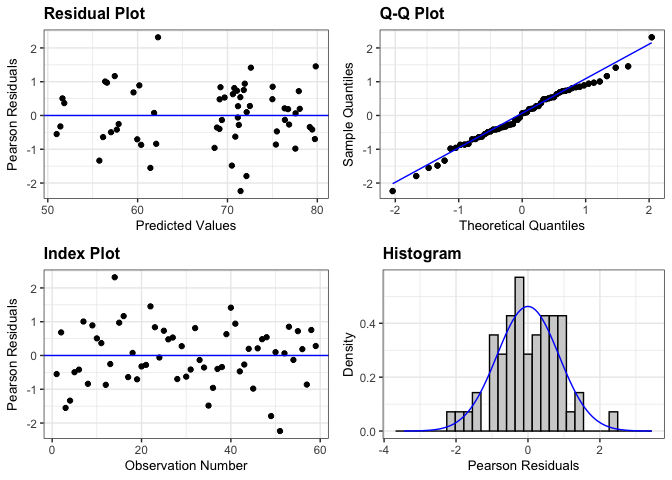
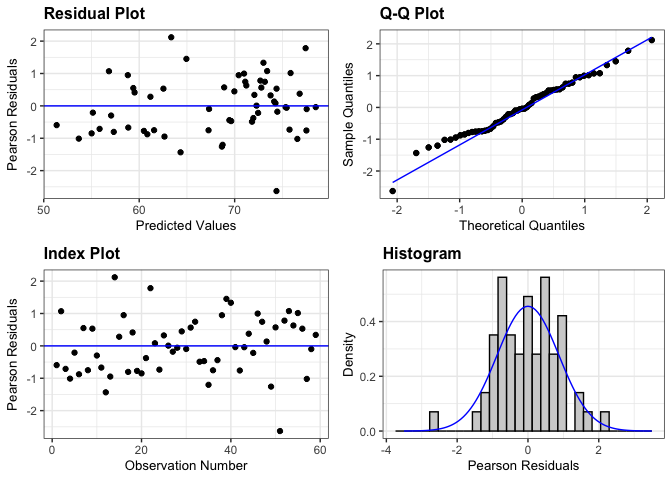
lets go

diff --git a/rmarkdowns/bean_yield.md b/rmarkdowns/bean_yield.md
@@ -29,8 +29,8 @@ library(ggResidpanel) ##install.packages("ggResidpanel")
 #library(car)
 #library(TMB)  ##install.packages("TMB")
 #library(glmmTMB)  ##install.packages("glmmTMB")
-#library(DHARMa)  ##install.packages("DHARMa")
-
+library(DHARMa)  ##install.packages("DHARMa")
+library(performance) ##install.packages("performance")
 #Load Functions
 MeanPlusSe<-function(x) mean(x)+plotrix::std.error(x)
 
@@ -112,12 +112,28 @@ be random and that post-hoc comparisons should use TUKEY rather the
 Fischer. Fisher is bogus apparently.
 
 ``` r
-random <- lmer( bean_yield_adj_bu_acre  ~ location+weed_control + location:weed_control +(1|location:block) , data =  bean_yield_clean)
+random <- lmer( bean_yield_adj_bu_acre  ~ weed_control +(1|location:block) , data =  bean_yield_clean)
 
 resid_panel(random)
 ```
 
 ![](bean_yield_files/figure-gfm/unnamed-chunk-4-1.png)<!-- -->
+
+``` r
+simulateResiduals(random,plot = TRUE) # Residuals and normality look good
+```
+
+![](bean_yield_files/figure-gfm/unnamed-chunk-4-2.png)<!-- -->
+
+    ## Object of Class DHARMa with simulated residuals based on 250 simulations with refit = FALSE . See ?DHARMa::simulateResiduals for help. 
+    ##  
+    ## Scaled residual values: 0.04 0.28 0.036 0.012 0.072 0.092 0.356 0.08 0.368 0.188 0.124 0.092 0.132 0.788 0.32 0.368 0.096 0.248 0.096 0.08 ...
+
+``` r
+check_model(random)
+```
+
+![](bean_yield_files/figure-gfm/unnamed-chunk-4-3.png)<!-- -->
 
 <br>
 
@@ -129,11 +145,9 @@ resid_panel(random)
   kable()  
 ```
 
-|     | model term            | df1 |   df2 | F.ratio |   p.value |
-|:----|:----------------------|----:|------:|--------:|----------:|
-| 1   | location              |   2 |  8.67 |  34.446 | 0.0000752 |
-| 3   | weed_control          |   4 | 35.03 |   1.135 | 0.3562477 |
-| 2   | location:weed_control |   8 | 35.03 |   1.248 | 0.3013225 |
+| model term   | df1 | df2 | F.ratio |  p.value |
+|:-------------|----:|----:|--------:|---------:|
+| weed_control |   4 |  43 |   1.169 | 0.337798 |
 
 <br>
 
@@ -149,26 +163,12 @@ kable(head(pairwise_comparisons_weed_control))
 
 | contrast  |   estimate |       SE |       df |    t.ratio |   p.value |
 |:----------|-----------:|---------:|---------:|-----------:|----------:|
-| RIC - RIM | -0.1501923 | 2.819198 | 35.73048 | -0.0532748 | 1.0000000 |
-| RIC - RNO |  1.4725294 | 2.736174 | 35.03121 |  0.5381710 | 0.9955121 |
-| RIC - TIC | -1.6850234 | 2.736174 | 35.03121 | -0.6158319 | 0.9907685 |
-| RIC - TIM |  3.7934286 | 2.736174 | 35.03121 |  1.3863988 | 0.6832901 |
-| RIM - RNO |  1.6227217 | 2.819198 | 35.73048 |  0.5755969 | 0.9935448 |
-| RIM - TIC | -1.5348311 | 2.819198 | 35.73048 | -0.5444212 | 0.9952174 |
-
-<br> \### Location (Significant)
-
-``` r
-means_location <- emmeans(random, ~  location)
-pairwise_comparisons_location<- pairs(means_location) 
-kable(head(pairwise_comparisons_location))
-```
-
-| contrast                      |  estimate |       SE |       df |  t.ratio |   p.value |
-|:------------------------------|----------:|---------:|---------:|---------:|----------:|
-| field O2 east - field O2 west |  2.758683 | 2.269573 | 9.102352 | 1.215508 | 0.5861020 |
-| field O2 east - field x       | 17.295801 | 2.232693 | 8.665443 | 7.746608 | 0.0001062 |
-| field O2 west - field x       | 14.537117 | 2.269573 | 9.102352 | 6.405221 | 0.0003553 |
+| RIC - RIM | -0.7070736 | 2.857106 | 43.13973 | -0.2474789 | 0.9999462 |
+| RIC - RNO |  1.4725294 | 2.780554 | 43.00087 |  0.5295813 | 0.9958500 |
+| RIC - TIC | -1.6850234 | 2.780554 | 43.00087 | -0.6060027 | 0.9914382 |
+| RIC - TIM |  3.7934286 | 2.780554 | 43.00087 |  1.3642707 | 0.6950589 |
+| RIM - RNO |  2.1796030 | 2.857106 | 43.13973 |  0.7628708 | 0.9722262 |
+| RIM - TIC | -0.9779499 | 2.857106 | 43.13973 | -0.3422868 | 0.9996441 |
 
 <br>
 
@@ -178,53 +178,19 @@ kable(head(pairwise_comparisons_location))
 
 ``` r
 cld_weed_control_tukey <-cld(emmeans(random, ~  weed_control, type = "response"), Letters = letters, sort = TRUE, reversed=TRUE)
-```
-
-    ## NOTE: Results may be misleading due to involvement in interactions
-
-``` r
 cld_weed_control_tukey
 ```
 
     ##  weed_control emmean   SE   df lower.CL upper.CL .group
-    ##  TIC            70.4 1.96 43.9     66.5     74.3  a    
-    ##  RIM            68.9 2.07 44.0     64.7     73.0  a    
-    ##  RIC            68.7 1.96 43.9     64.8     72.7  a    
-    ##  RNO            67.2 1.96 43.9     63.3     71.2  a    
-    ##  TIM            64.9 1.96 43.9     61.0     68.9  a    
+    ##  TIC            70.4 3.03 23.4     64.1     76.7  a    
+    ##  RIM            69.4 3.10 25.1     63.0     75.8  a    
+    ##  RIC            68.7 3.03 23.4     62.5     75.0  a    
+    ##  RNO            67.2 3.03 23.4     61.0     73.5  a    
+    ##  TIM            64.9 3.03 23.4     58.7     71.2  a    
     ## 
-    ## Results are averaged over the levels of: location 
     ## Degrees-of-freedom method: kenward-roger 
     ## Confidence level used: 0.95 
     ## P value adjustment: tukey method for comparing a family of 5 estimates 
-    ## significance level used: alpha = 0.05 
-    ## NOTE: If two or more means share the same grouping symbol,
-    ##       then we cannot show them to be different.
-    ##       But we also did not show them to be the same.
-
-<br>
-
-### Location (Significant)
-
-``` r
-cld_location_tukey <-cld(emmeans(random, ~  location, type = "response"), Letters = letters, sort = TRUE, reversed=TRUE)
-```
-
-    ## NOTE: Results may be misleading due to involvement in interactions
-
-``` r
-cld_location_tukey
-```
-
-    ##  location      emmean   SE   df lower.CL upper.CL .group
-    ##  field O2 east   74.7 1.58 8.67     71.1     78.3  a    
-    ##  field O2 west   72.0 1.63 9.54     68.3     75.6  a    
-    ##  field x         57.4 1.58 8.67     53.8     61.0   b   
-    ## 
-    ## Results are averaged over the levels of: weed_control 
-    ## Degrees-of-freedom method: kenward-roger 
-    ## Confidence level used: 0.95 
-    ## P value adjustment: tukey method for comparing a family of 3 estimates 
     ## significance level used: alpha = 0.05 
     ## NOTE: If two or more means share the same grouping symbol,
     ##       then we cannot show them to be different.
@@ -238,48 +204,16 @@ cld_location_tukey
 
 ``` r
 cld_weed_control_fisher <-cld(emmeans(random, ~  weed_control , type = "response"), Letters = letters, adjust = "none",sort = TRUE, reversed=TRUE)
-```
-
-    ## NOTE: Results may be misleading due to involvement in interactions
-
-``` r
 cld_weed_control_fisher
 ```
 
     ##  weed_control emmean   SE   df lower.CL upper.CL .group
-    ##  TIC            70.4 1.96 43.9     66.5     74.3  a    
-    ##  RIM            68.9 2.07 44.0     64.7     73.0  a    
-    ##  RIC            68.7 1.96 43.9     64.8     72.7  a    
-    ##  RNO            67.2 1.96 43.9     63.3     71.2  a    
-    ##  TIM            64.9 1.96 43.9     61.0     68.9  a    
+    ##  TIC            70.4 3.03 23.4     64.1     76.7  a    
+    ##  RIM            69.4 3.10 25.1     63.0     75.8  a    
+    ##  RIC            68.7 3.03 23.4     62.5     75.0  a    
+    ##  RNO            67.2 3.03 23.4     61.0     73.5  a    
+    ##  TIM            64.9 3.03 23.4     58.7     71.2  a    
     ## 
-    ## Results are averaged over the levels of: location 
-    ## Degrees-of-freedom method: kenward-roger 
-    ## Confidence level used: 0.95 
-    ## significance level used: alpha = 0.05 
-    ## NOTE: If two or more means share the same grouping symbol,
-    ##       then we cannot show them to be different.
-    ##       But we also did not show them to be the same.
-
-### Location (Significant)
-
-``` r
-#location
-cld_location_fisher <-cld(emmeans(random, ~  location , type = "response"), Letters = letters, adjust = "none",sort = TRUE, reversed=TRUE)
-```
-
-    ## NOTE: Results may be misleading due to involvement in interactions
-
-``` r
-cld_location_fisher
-```
-
-    ##  location      emmean   SE   df lower.CL upper.CL .group
-    ##  field O2 east   74.7 1.58 8.67     71.1     78.3  a    
-    ##  field O2 west   72.0 1.63 9.54     68.3     75.6  a    
-    ##  field x         57.4 1.58 8.67     53.8     61.0   b   
-    ## 
-    ## Results are averaged over the levels of: weed_control 
     ## Degrees-of-freedom method: kenward-roger 
     ## Confidence level used: 0.95 
     ## significance level used: alpha = 0.05 
@@ -323,46 +257,34 @@ bean_yield_clean |>
   )
 ```
 
-![](bean_yield_files/figure-gfm/unnamed-chunk-12-1.png)<!-- -->
+![](bean_yield_files/figure-gfm/unnamed-chunk-9-1.png)<!-- -->
 
 ``` r
-ggsave("bean_yield_weed_control_bua.png", width = 12, height = 8, dpi = 300)
+ggsave("bean_yield_weed_control_bua.png", width = 10, height = 8, dpi = 300)
 ```
 
 ## Location (S)
 
-``` r
-bean_yield_clean |> 
-  left_join(cld_location_tukey) |> 
-  ggplot(aes(x = location, y = bean_yield_adj_bu_acre, fill = location)) +
-  stat_summary(geom = "bar", fun = "mean", width = 0.7) +
-  stat_summary(geom = "errorbar", fun.data = "mean_se", width = 0.2) +
-  stat_summary(geom="text", fun = "MeanPlusSe", aes(label= trimws(.group)),size=6.5,vjust=-0.5) +
-  labs(
-    x = "Location",
-    y = expression(paste("Soybean yield (", bu, "/", a, " at 13% moisture)")),
-    title = str_c("The influence of location on soybean yield"),
-    subtitle = expression(italic("P < 0.005"))) +
-   scale_x_discrete(labels = c("Field O2 East ",
-                              "Field O2 West",
-                              "Field X")) +
-  scale_y_continuous(expand = expansion(mult = c(0.05, 0.3))) +
-  scale_fill_viridis(discrete = TRUE, option = "D", direction = -1, end = 0.9, begin = 0.1) +
-   theme_bw() +
-  theme(
-    legend.position = "none",
-    strip.background = element_blank(),
-    strip.text = element_text(face = "bold", size = 12),
-    axis.title = element_text(size = 20),  # Increase font size of axis titles
-    axis.text = element_text(size = 16),   # Increase font size of axis labels
-    plot.title = element_text(size = 22, face = "bold"),  # Increase font size of title
-    plot.subtitle = element_text(size = 18, face = "italic")  # Increase font size of subtitle
-  
-  )
-```
+\#\`\`\`{r message=FALSE, warning=FALSE} bean_yield_clean \|\>
+left_join(cld_location_tukey) \|\> ggplot(aes(x = location, y =
+bean_yield_adj_bu_acre, fill = location)) + stat_summary(geom = “bar”,
+fun = “mean”, width = 0.7) + stat_summary(geom = “errorbar”, fun.data =
+“mean_se”, width = 0.2) + stat_summary(geom=“text”, fun = “MeanPlusSe”,
+aes(label= trimws(.group)),size=6.5,vjust=-0.5) + labs( x = “Location”,
+y = expression(paste(“Soybean yield (”, bu, “/”, a, ” at 13%
+moisture)“)), title = str_c(”The influence of location on soybean
+yield”), subtitle = expression(italic(“P \< 0.005”))) +
+scale_x_discrete(labels = c(“Field O2 East”, “Field O2 West”, “Field
+X”)) + scale_y_continuous(expand = expansion(mult = c(0.05, 0.3))) +
+scale_fill_viridis(discrete = TRUE, option = “D”, direction = -1, end =
+0.9, begin = 0.1) + theme_bw() + theme( legend.position = “none”,
+strip.background = element_blank(), strip.text = element_text(face =
+“bold”, size = 12), axis.title = element_text(size = 20), \# Increase
+font size of axis titles axis.text = element_text(size = 16), \#
+Increase font size of axis labels plot.title = element_text(size = 22,
+face = “bold”), \# Increase font size of title plot.subtitle =
+element_text(size = 18, face = “italic”) \# Increase font size of
+subtitle
 
-![](bean_yield_files/figure-gfm/unnamed-chunk-13-1.png)<!-- -->
-
-``` r
-ggsave("bean_yield_location_bua.png", width = 8, height = 6, dpi = 300)
-```
+) ggsave(“bean_yield_location_bua.png”, width = 10, height = 6, dpi =
+300) \`\`\`
